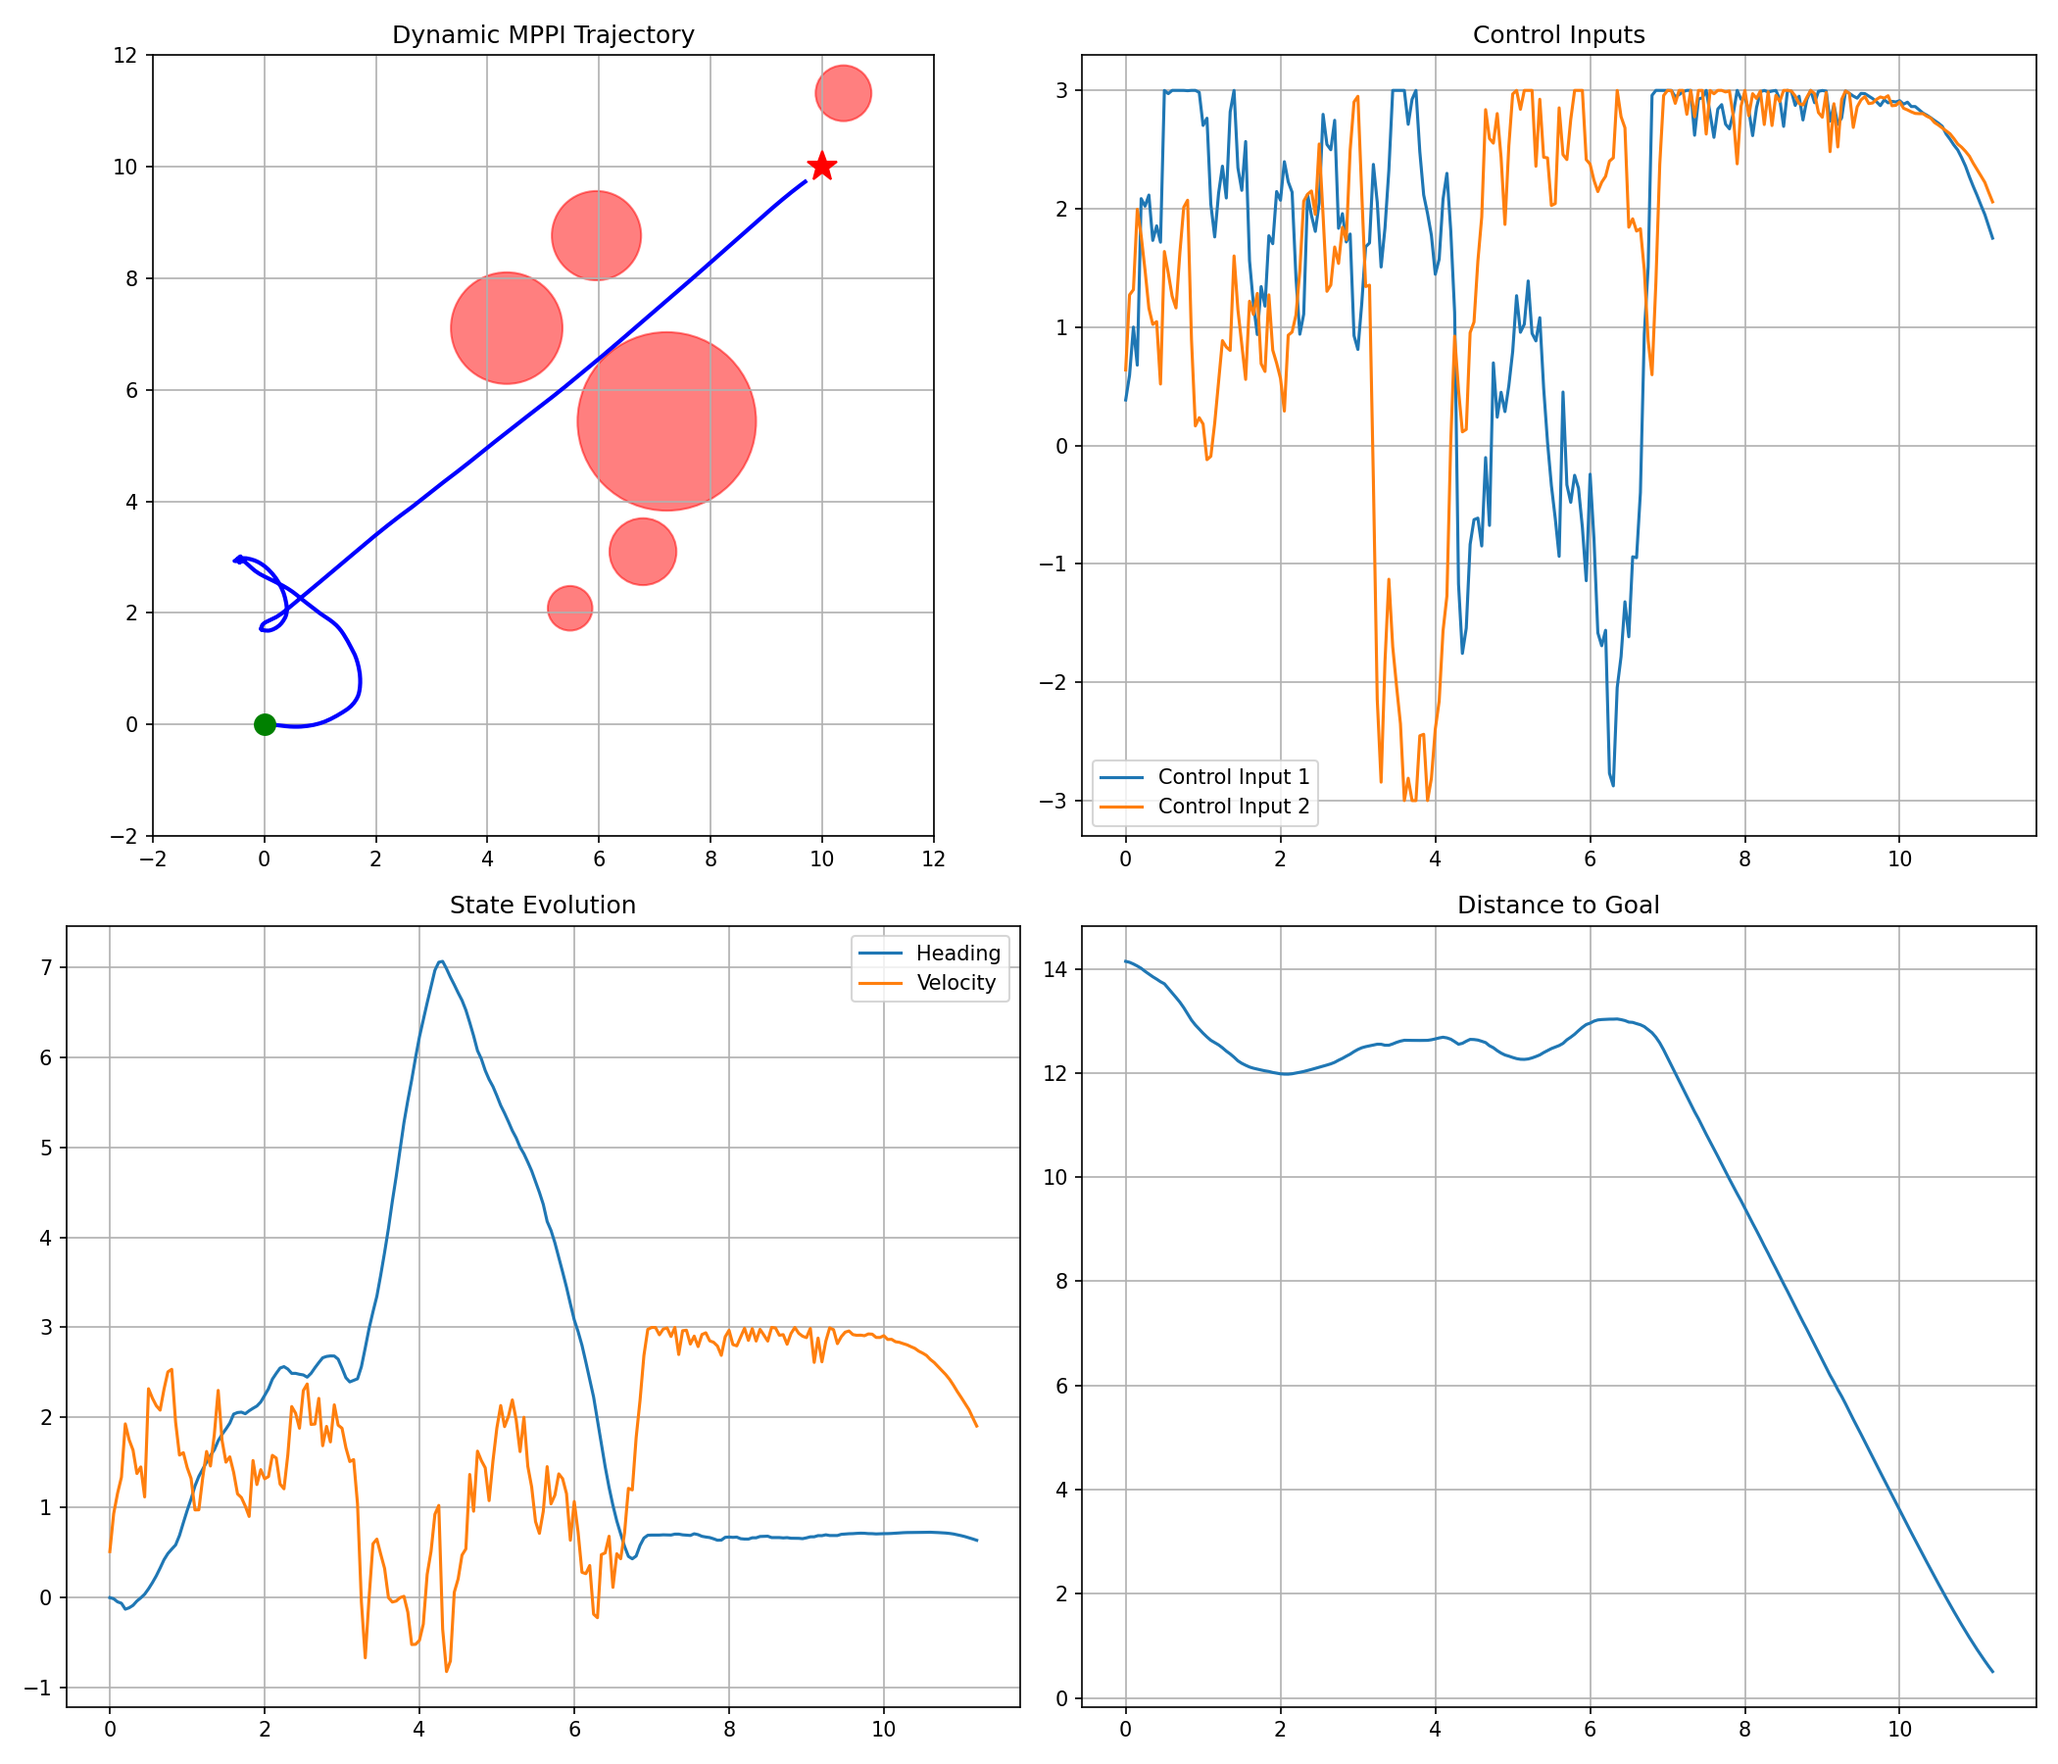
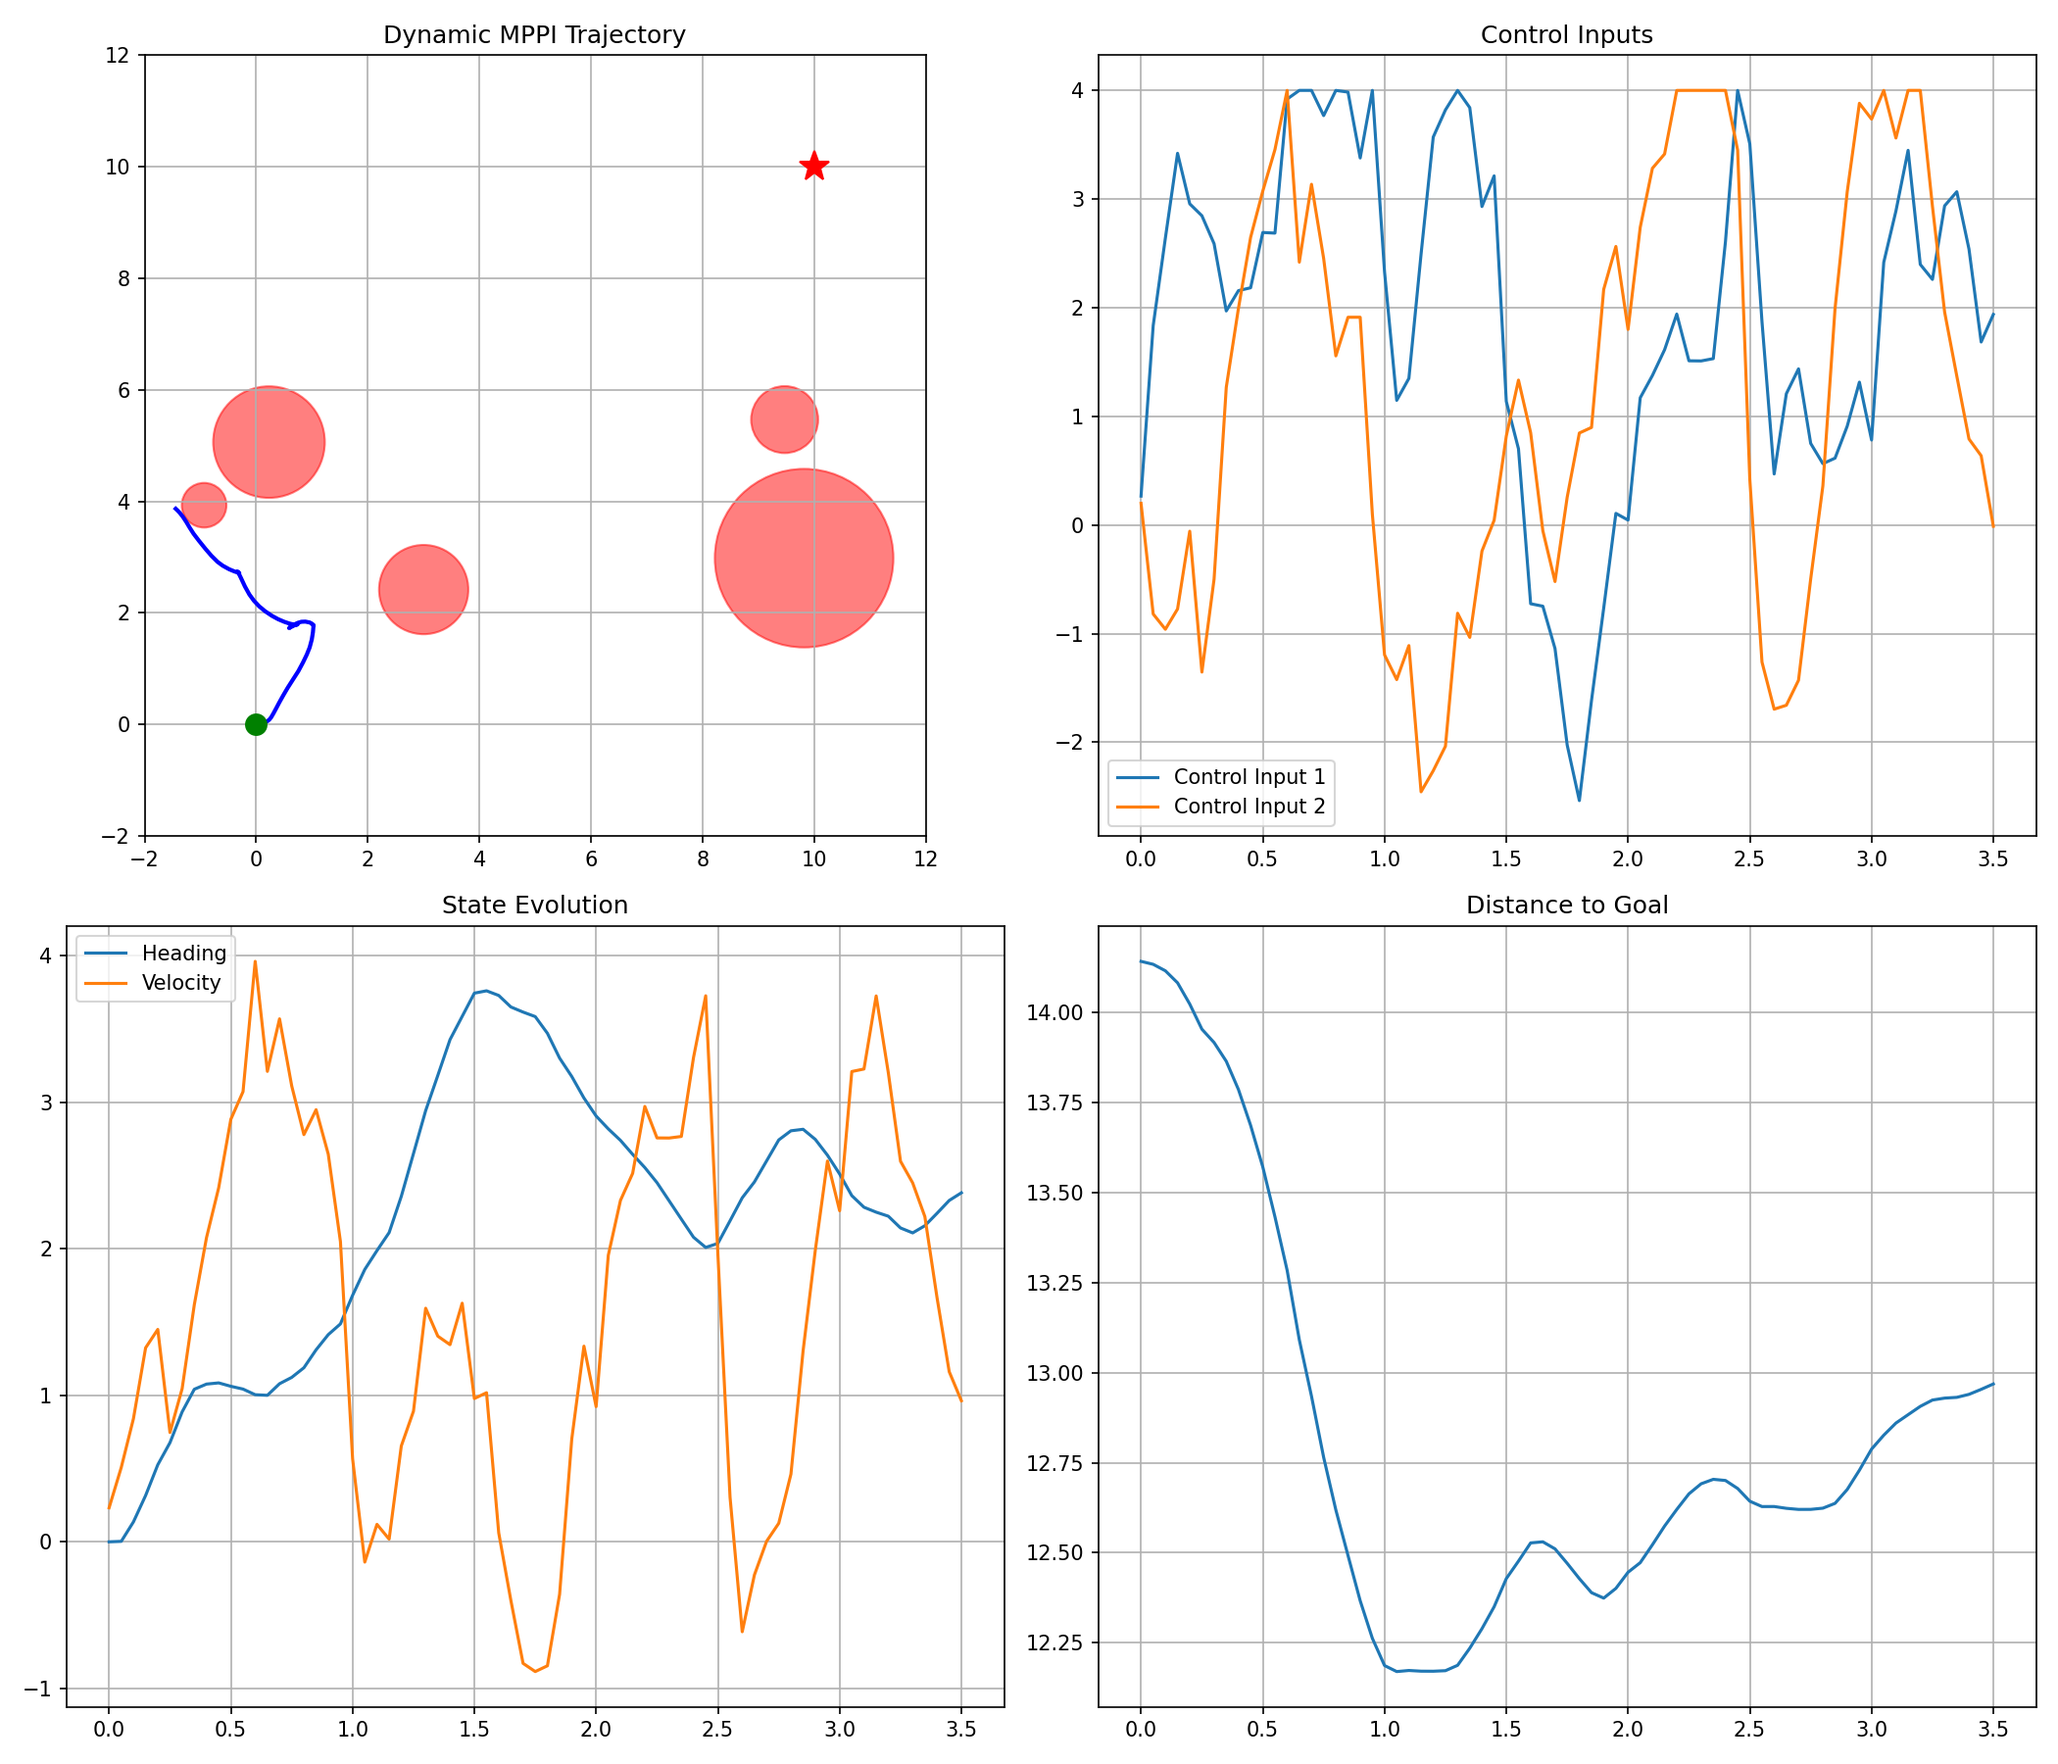
critical bugfix in initial conditions

diff --git a/dynamicMPPI_test.py b/dynamicMPPI_test.py
@@ -35,9 +35,9 @@ env.add_obstacle(
     Obstacle(position=[8.0, 2.0], radius=1.6, velocity=[0.5, 0.3])
 )
 
-env.add_obstacle(
-    Obstacle(position=[8.0, 8.0], radius=0.5, velocity=[-1.0, -0.2])
-)
+# env.add_obstacle(
+#    Obstacle(position=[0.0, 8.0], radius=0.5, velocity=[-1.0, -0.2])
+#)
 
 # ============================================================================
 # Configure MPPI
@@ -51,30 +51,30 @@ model_md = model.metadata
 state_dim = model_md["state_dim"]
 control_dim = model_md["control_dim"]
 
+print("State Dimensions: ", state_dim)
+
 max_deg = 60.0
 if state_dim == 4:
     Q_mod=np.diag([10.0, 10.0, 2.0, 2.0])
     Qf_mod=np.diag([50.0, 50.0, 5.0, 5.0])
     umin_mod = np.array([-3.0, -max_deg*np.pi/180])
     umax_mod = np.array([3.0, max_deg*np.pi/180])
-    noise_mod = np.array([0.5, 0.2])
+    noise_mod = np.array([0.6, 0.25])
     ctrl_label_1 = "Acceleration"
     ctrl_label_2 = "Steering Angle"
     x0 = np.array([0.0, 0.0, 0.0, 0.0])
     x_goal = np.array([10.0, 10.0, 0.0, 0.0])
 
 else:
-    Q_mod=np.diag([10.0, 10.0, 2.0])
+    Q_mod=np.diag([8.0, 8.0, 1.5])
     Qf_mod=np.diag([50.0, 50.0, 5.0])
-    umin_mod = np.array([-3.0, -3.0])
-    umax_mod = np.array([3.0, 3.0])
-    noise_mod = np.array([0.5, 0.5])
-    x0 = np.array([0.0, 0.0, 0.0])
-    x_goal = np.array([0.0, 10.0, 0.0])
+    umin_mod = np.array([-4.0, -4.0])
+    umax_mod = np.array([4.0, 4.0])
+    noise_mod = np.array([0.7, 0.7])
     ctrl_label_1 = "Left Wheel Velocity"
     ctrl_label_2 = "Right Wheel Velocity"
-    x0 = np.array([0.0, 0.0, 0.0])
-    x_goal = np.array([10.0, 10.0, 0.0])
+    x0 = np.array([10.0, 0.0, -np.pi])
+    x_goal = np.array([0.0, 10.0, 0.0])
 
 
 config = MPPIConfig(
@@ -131,6 +131,10 @@ for step in range(num_steps):
 
     # --- Apply dynamics ---
     x = model.cpu(x, u, config.dt, config.dynamics_params)
+
+    if env.check_for_collision(x[:2]):
+        print("FATAL: Robot has been killed by the environment. Terminating simulation.")
+        break
 
     trajectory.append(x.copy())
     controls.append(u.copy())

diff --git a/environments/dynamicEnv_deterministic.py b/environments/dynamicEnv_deterministic.py
@@ -96,7 +96,7 @@ class DeterministicEnv:
         
         for obs in self.obstacles:
             dist = np.linalg.norm(position[:2] - obs.position)
-            if dist <= obs.radius + self.robot_radius:
+            if dist <= obs.radius + self.robot_radius - 0.05:
                 return True
             
         return False
